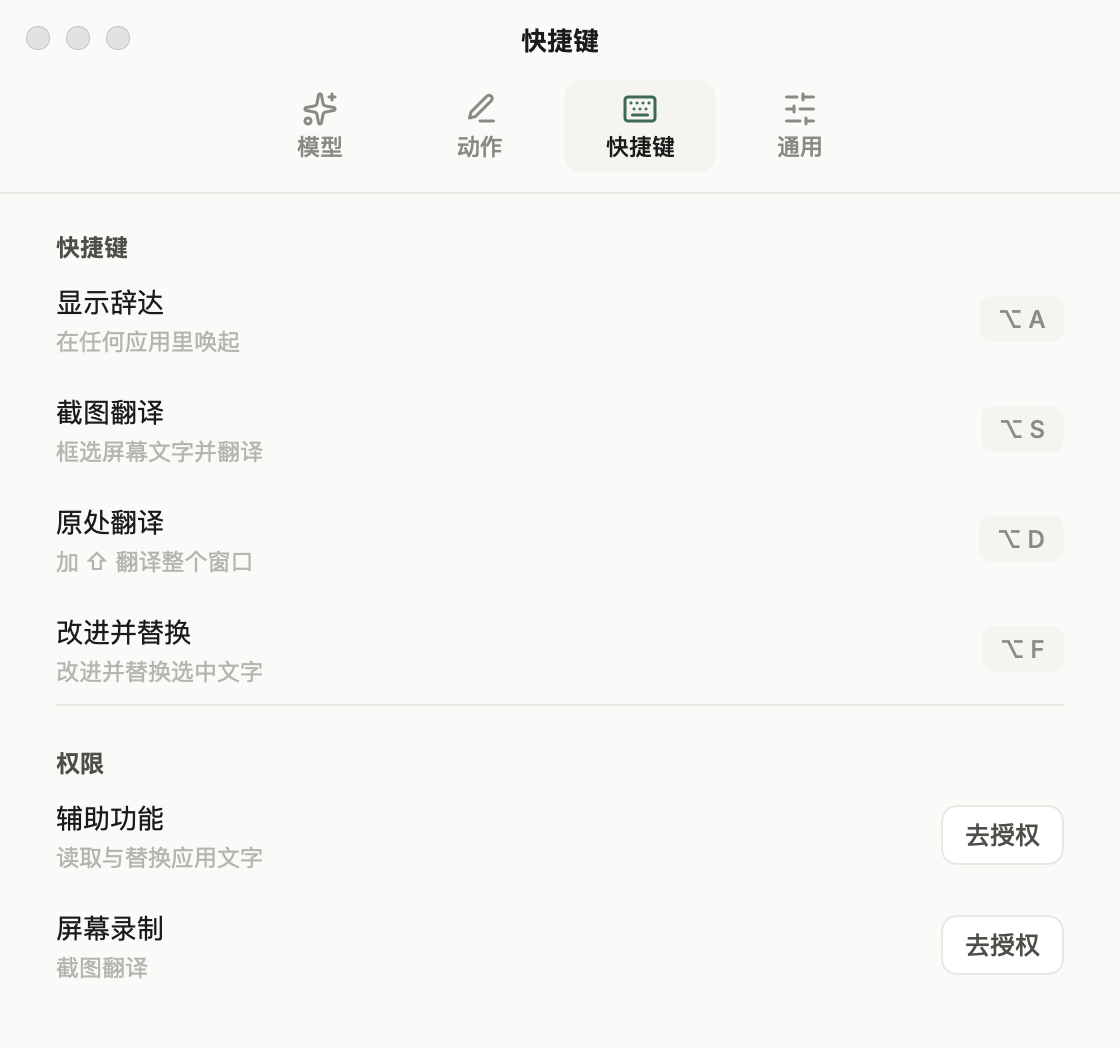
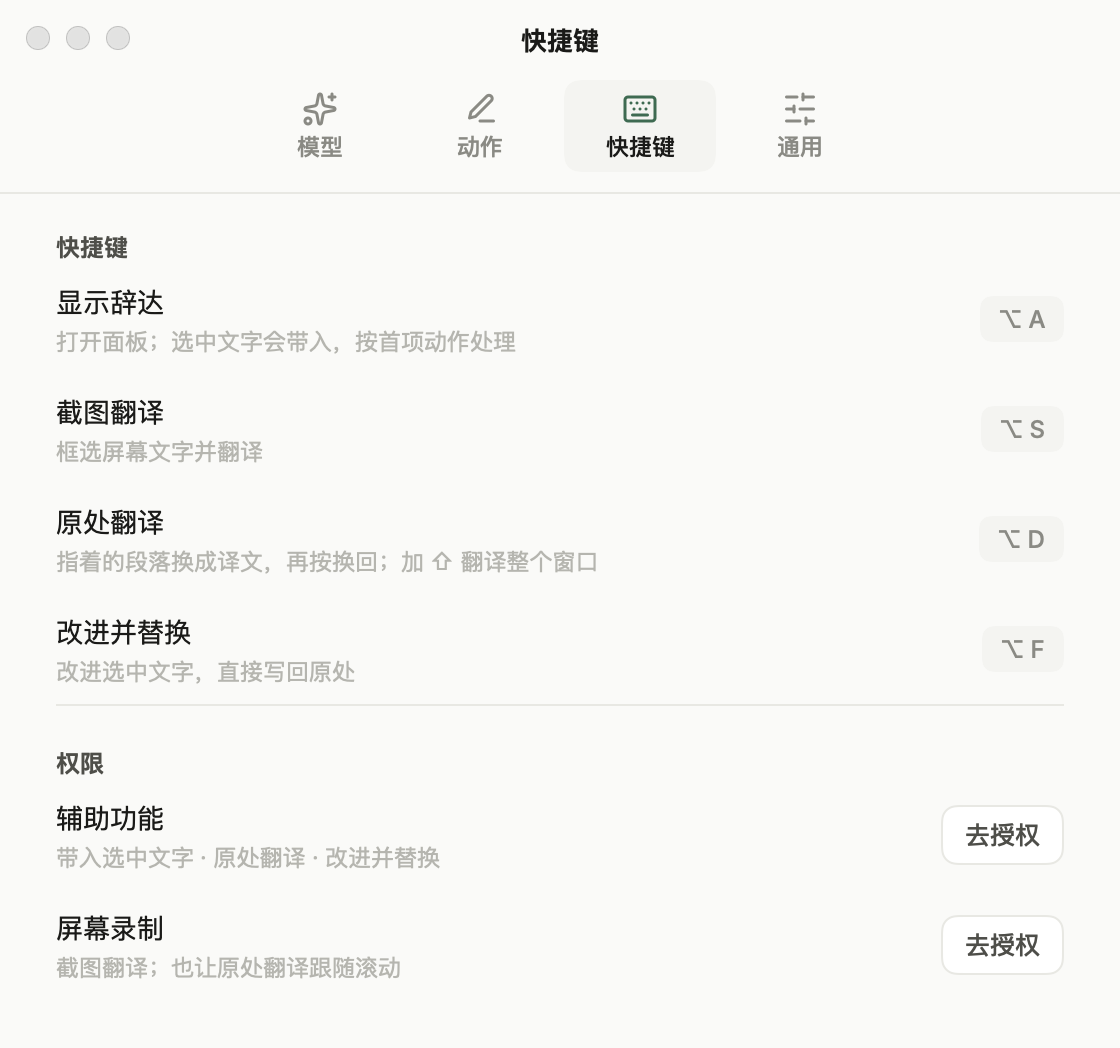
feat: clarify shortcut and permission settings
Explain each shortcut's effect directly in Settings and give captions the available width before their controls. Keep recording and permission interactions unchanged, and cover long custom combinations in native captures.

diff --git a/Sources/Cida/SettingsView.swift b/Sources/Cida/SettingsView.swift
@@ -478,20 +478,24 @@ private struct SettingsGroup<Content: View>: View {
   }
 }
 
-/// Label column (120 pt) beside a control column that fills the row.
+/// Form fields use a 120 pt label column. Shortcut and permission captions fill the
+/// space before their intrinsic-width trailing controls.
 private struct SettingsRow<Control: View>: View {
   let title: String
   var caption: String? = nil
   var verticalPadding: CGFloat = 9
   var alignment: Alignment = .leading
+  var expandsLabel = false
   @ViewBuilder let control: Control
 
   var body: some View {
     HStack(alignment: .center, spacing: 24) {
       SettingsLabel(title, caption: caption)
-        .frame(width: 120, alignment: .leading)
+        .frame(width: expandsLabel ? nil : 120, alignment: .leading)
+        .frame(maxWidth: expandsLabel ? .infinity : nil, alignment: .leading)
       control
-        .frame(maxWidth: .infinity, alignment: alignment)
+        .fixedSize(horizontal: expandsLabel, vertical: false)
+        .frame(maxWidth: expandsLabel ? nil : .infinity, alignment: alignment)
     }
     .padding(.vertical, verticalPadding)
   }
@@ -848,10 +852,10 @@ private struct GlobalShortcutRow: View {
     }
     if feedback == .rejected { return "这个组合已被占用，换一个" }
     switch action {
-    case .showPanel: return "在任何应用里唤起"
+    case .showPanel: return "打开面板；选中文字会带入，按首项动作处理"
     case .captureText: return "框选屏幕文字并翻译"
-    case .translationLayer: return "加 ⇧ 翻译整个窗口"
-    case .improveSelection: return "改进并替换选中文字"
+    case .translationLayer: return "指着的段落换成译文，再按换回；加 ⇧ 翻译整个窗口"
+    case .improveSelection: return "改进选中文字，直接写回原处"
     }
   }
 
@@ -874,7 +878,7 @@ private struct GlobalShortcutRow: View {
   }
 
   var body: some View {
-    SettingsRow(title: title, caption: caption, alignment: .trailing) {
+    SettingsRow(title: title, caption: caption, alignment: .trailing, expandsLabel: true) {
       HStack(spacing: 12) {
         if shortcut != action.defaultShortcut, !isRecording {
           Button("恢复默认") {
@@ -953,14 +957,14 @@ private struct ShortcutChip: View {
 // MARK: - 权限
 
 /// Accessibility lets the panel's shortcut bring in the frontmost application's selection and lets the
-/// translation layer read other applications' text (`Design/spec/settings.md` §五). There is no
-/// switch: granting turns both on, revoking in System Settings turns them off.
+/// translation layer and improvement action read or replace text (`Design/spec/settings.md` §五).
+/// Granting enables these capabilities; revoking in System Settings disables them.
 private struct AccessibilityPermissionRow: View {
   @Bindable var model: AppModel
 
   var body: some View {
     PermissionRow(
-      title: "辅助功能", caption: "读取与替换应用文字", isGranted: model.isSelectionAccessGranted,
+      title: "辅助功能", caption: "带入选中文字 · 原处翻译 · 改进并替换", isGranted: model.isSelectionAccessGranted,
       request: model.requestSelectionAccess, identifier: "settings-selection-access"
     )
     // The system does not say when the permission changes for this process;
@@ -987,13 +991,13 @@ private struct AccessibilityPermissionRow: View {
 }
 
 /// Screen Recording lets the capture shortcut freeze the screen and lets the translation
-/// layer match the page's colours and follow it while it scrolls.
+/// layer follow the source text while it scrolls.
 private struct ScreenRecordingPermissionRow: View {
   @Bindable var model: AppModel
 
   var body: some View {
     PermissionRow(
-      title: "屏幕录制", caption: "截图翻译", isGranted: model.isCaptureAccessGranted,
+      title: "屏幕录制", caption: "截图翻译；也让原处翻译跟随滚动", isGranted: model.isCaptureAccessGranted,
       request: model.requestCaptureAccess, identifier: "settings-capture-access"
     )
     .onAppear(perform: model.refreshCaptureAccess)
@@ -1014,7 +1018,7 @@ private struct PermissionRow: View {
   let identifier: String
 
   var body: some View {
-    SettingsRow(title: title, caption: caption, alignment: .trailing) {
+    SettingsRow(title: title, caption: caption, alignment: .trailing, expandsLabel: true) {
       if isGranted {
         Text("已开启")
           .font(CidaDesign.ui(12, weight: .medium))

diff --git a/Design/boards/components.js b/Design/boards/components.js
@@ -150,17 +150,19 @@ class CidaSettings extends HTMLElement {
     const shortcut = is("shortcut", "recording")
       ? row("显示辞达", "⌫ 不设置 · Esc 取消", `<span class="chip recording">按下新组合…</span>`, "end")
       : is("shortcut", "custom")
-        ? row("显示辞达", "在任何应用里唤起", `<span class="link">恢复默认</span><span class="chip">⌃ ⌥ T</span>`, "end spaced")
+        ? row("显示辞达", "打开面板；选中文字会带入，按首项动作处理", `<span class="link">恢复默认</span><span class="chip">⌃ ⌥ T</span>`, "end spaced")
         : is("shortcut", "unset")
-          ? row("显示辞达", "在任何应用里唤起", unset, "end spaced")
-          : row("显示辞达", "在任何应用里唤起", `<span class="chip${focus("shortcut")}">⌥ A</span>`, "end");
+          ? row("显示辞达", "打开面板；选中文字会带入，按首项动作处理", unset, "end spaced")
+          : row("显示辞达", "打开面板；选中文字会带入，按首项动作处理", `<span class="chip${focus("shortcut")}">⌥ A</span>`, "end");
     const capture = row("截图翻译", "框选屏幕文字并翻译", `<span class="chip">⌥ S</span>`, "end");
     const layerShortcut = is("shortcut", "unset")
-      ? row("原处翻译", "加 ⇧ 翻译整个窗口", unset, "end spaced")
-      : row("原处翻译", "加 ⇧ 翻译整个窗口", `<span class="chip">⌥ D</span>`, "end");
+      ? row("原处翻译", "指着的段落换成译文，再按换回；加 ⇧ 翻译整个窗口", unset, "end spaced")
+      : is("shortcut", "custom")
+        ? row("原处翻译", "指着的段落换成译文，再按换回；加 ⇧ 翻译整个窗口", `<span class="link">恢复默认</span><span class="chip">⌃ ⌥ ⌘ Space</span>`, "end spaced")
+        : row("原处翻译", "指着的段落换成译文，再按换回；加 ⇧ 翻译整个窗口", `<span class="chip">⌥ D</span>`, "end");
     const improvementShortcut = is("shortcut", "unset")
-      ? row("改进并替换", "改进并替换选中文字", unset, "end spaced")
-      : row("改进并替换", "改进并替换选中文字", `<span class="chip">⌥ F</span>`, "end");
+      ? row("改进并替换", "改进选中文字，直接写回原处", unset, "end spaced")
+      : row("改进并替换", "改进选中文字，直接写回原处", `<span class="chip">⌥ F</span>`, "end");
     // spec/settings.md §五: 已开启 once granted, otherwise 去授权.
     const permission = (title, caption) => row(title, caption,
       granted ? `<span class="status">已开启</span>` : `<span class="button">去授权</span>`, "end");
@@ -233,8 +235,8 @@ class CidaSettings extends HTMLElement {
         <div class="group"><h3>语言</h3>${languages}</div>
         <div class="group">${actions}</div>`,
       shortcuts: `
-        <div class="group"><h3>快捷键</h3>${shortcut}${capture}${layerShortcut}${improvementShortcut}</div>
-        <div class="group"><h3>权限</h3>${permission("辅助功能", "读取与替换应用文字")}${permission("屏幕录制", "截图翻译")}</div>`,
+        <div class="group wide-caption"><h3>快捷键</h3>${shortcut}${capture}${layerShortcut}${improvementShortcut}</div>
+        <div class="group wide-caption"><h3>权限</h3>${permission("辅助功能", "带入选中文字 · 原处翻译 · 改进并替换")}${permission("屏幕录制", "截图翻译；也让原处翻译跟随滚动")}</div>`,
       general: `
         <div class="group">${launch}${updates}${feedback}</div>
         <div class="footer"><span class="wordmark">辞达</span><small>1.0 · 辞达而已矣</small></div>`,

diff --git a/Design/boards/components.css b/Design/boards/components.css
@@ -1132,3 +1132,7 @@ body {
 .actions-trial-result { font-family: var(--font-result-cjk); font-size: 15px; line-height: 1.75; margin: 16px 0; color: var(--text-ink); }
 .actions-trial-result.reference { color: var(--text-secondary); }
 .actions-trial-run { display: flex; justify-content: flex-end; padding-top: 8px; }
+
+/* Shortcut and permission captions use the space before their trailing controls. */
+.settings .wide-caption .labels { width: auto; flex: 1; min-width: 0; }
+.settings .wide-caption .controls { flex: none; }

diff --git a/Sources/Cida/AppLifecycle.swift b/Sources/Cida/AppLifecycle.swift
@@ -1071,6 +1071,8 @@ private struct LaunchOptions {
       if usesDesignFixtures, designState == .settingsShortcutsCustom {
         settings.shortcut = GlobalShortcut(
           keyCode: UInt16(kVK_ANSI_T), modifiers: [.control, .option])
+        settings.layerShortcut = GlobalShortcut(
+          keyCode: UInt16(kVK_Space), modifiers: [.control, .option, .command])
       }
       if usesDesignFixtures, designState == .settingsShortcutsUnset {
         // Someone who only captures text.

diff --git a/Design/spec/settings.md b/Design/spec/settings.md
@@ -10,7 +10,7 @@
 - 设置页所有自有控件统一用 1pt `accent` 细线表示键盘焦点，替代系统默认粗蓝框。标签、按钮、快捷键和动作分段沿各自圆角内描边；纯文字按钮向外留 3pt，开关沿胶囊外缘留 2pt，让开启时的焦点仍可辨认。输入框聚焦时边线转为绿色，动作名称用绿色下划线，提示词编辑器用绿色光标。焦点离开后提示消失，禁用控件不参与焦点导航；系统窗口按钮、系统弹窗和「完全键盘控制」的辅助功能高亮仍由系统管理。
 - 当前标签的浅灰底和绿色图标只表示页面选择，与键盘焦点独立。Tab / Shift-Tab 移动焦点，空格激活按钮或开关；编辑器保留文本输入和已有快捷键。
 - 窗口高度随当前标签的内容；切换标签或展开提示词时顶边不动、窗口用 150ms（`motion-height-ms`）ease-out 向下展开或向上收起（reduced motion 时直接到位），超过屏幕可见高度时停在可见高度、内容在窗口内滚动。
-- 标签里按组排列：组标题 12 semibold `text-control`；只有一组的标签不写组标题（标题栏已经说了）；组间 1px `border` 分隔；第一组距分隔线 12，后面的组距上一条分隔线 20。行 = 标签列 120 + 24 间距 + 控件列铺满；标签 13.5 `text-primary`，说明 11.5 `text-tertiary`；行上下 padding 9。
+- 标签里按组排列：组标题 12 semibold `text-control`；只有一组的标签不写组标题（标题栏已经说了）；组间 1px `border` 分隔；第一组距分隔线 12，后面的组距上一条分隔线 20。行 = 标签列 120 + 24 间距 + 控件列铺满；标签 13.5 `text-primary`，说明 11.5 `text-tertiary`；行上下 padding 9。快捷键与权限行的标签列占用右侧控件前的剩余宽度，控件保持固有宽度，列间仍留 24pt；说明不再限制在 120pt 内。
 - 语言与其他偏好自动保存（250ms 合并）。动作编辑由「完成」应用，草稿在当前应用进程内保留。
 
 ## 二、模型
@@ -68,10 +68,10 @@
 
 | 行 | 说明 | 默认 |
 | --- | --- | --- |
-| 显示辞达 | 在任何应用里唤起 | ⌥ A |
+| 显示辞达 | 打开面板；选中文字会带入，按首项动作处理 | ⌥ A |
 | 截图翻译 | 框选屏幕文字并翻译 | ⌥ S |
-| 原处翻译 | 加 ⇧ 翻译整个窗口（`spec/translation-layer.md`） | ⌥ D |
-| 改进并替换 | 改进并替换选中文字 | ⌥ F |
+| 原处翻译 | 指着的段落换成译文，再按换回；加 ⇧ 翻译整个窗口（`spec/translation-layer.md`） | ⌥ D |
+| 改进并替换 | 改进选中文字，直接写回原处 | ⌥ F |
 
 - 键帽芯片（`surface-dim`，`radius-chip`，12 medium `text-secondary`）是一个按钮，显示当前组合。点击进入录制：芯片改为 `surface` 底、1px accent 描边、`text-tertiary`「按下新组合…」，说明变为「⌫ 不设置 · Esc 取消」；按下带 ⌘/⌥/⌃ 的组合立即保存并重新注册，Esc 或失焦取消；按下不带这些修饰键的按键不结束录制，说明改为「要带 ⌘、⌥ 或 ⌃」。注册失败（被系统、其他应用或另一个快捷键占用）保留原组合，说明变为「这个组合已被占用，换一个」。录制任一快捷键时所有全局快捷键都暂停，按下的组合只交给录制。未开始录制时，隐藏的录制器不参与 Tab 导航。
 - 不设置（2026-09-30 决定）：录制时单独按 ⌫ 或 ⌦，立即注销这个全局快捷键并结束录制；带修饰键的 ⌫（如 ⌥⌫）仍是普通组合。未设置时芯片写「未设置」（`text-tertiary`），点击照常录制；组合不是默认值，所以左侧出现「恢复默认」。未设置的快捷键不参与「不能相同」，它原来的组合可以给别的快捷键。给只用其中一两个功能的人：只用截图翻译时清掉显示辞达与原处翻译。没有逐行开关，不弹确认。
@@ -91,8 +91,8 @@
 
 | 行 | 说明 | 用途 |
 | --- | --- | --- |
-| 辅助功能 | 读取与替换应用文字 | ⌥ A 带入前台应用的选中文字（`spec/panel.md` §一）；原处翻译读取其他应用的文字（没有它时按 ⌥ D 只请求这项权限）；⌥ F 读取并替换选中文字 |
-| 屏幕录制 | 截图翻译 | ⌥ S 冻结屏幕框选文字（原处翻译不用它：译文总是辞达的纸与墨） |
+| 辅助功能 | 带入选中文字 · 原处翻译 · 改进并替换 | ⌥ A 带入前台应用的选中文字（`spec/panel.md` §一）；原处翻译读取其他应用的文字（没有它时按 ⌥ D 只请求这项权限）；⌥ F 读取并替换选中文字 |
+| 屏幕录制 | 截图翻译；也让原处翻译跟随滚动 | 截图翻译冻结屏幕框选文字；已授权时，原处翻译捕获源窗口以跟随滚动。未授权时仍可原处翻译，停稳后再定位，不额外申请这项权限；译文保持辞达的纸与墨 |
 
 - 未授权：右侧「去授权」边框按钮（同「编辑」），点击弹出系统授权提示（屏幕录制同时打开「隐私与安全性 › 屏幕录制」；授权后 macOS 可能要求重新打开辞达）。已授权：右侧「已开启」（12 medium `text-secondary`）。
 - 状态在窗口成为 key 时重新读取；辅助功能还在系统的允许列表变化时重新读取，不需要重启辞达。

diff --git a/Design/spec/review-decisions.md b/Design/spec/review-decisions.md
@@ -1,6 +1,6 @@
 # 交互精修决策与确认进度
 
-2026-10-08：按 01–09 的顺序逐项审阅和实现。01–06 已获用户确认；07–09 是已经讨论收敛、等待用户逐项确认的建议，不替换现行产品规范，也不授权提前实现。每项确认后，在对应主题的规范和设计板中原位更新，并在本表更新状态。
+2026-10-20：按 01–09 的顺序逐项审阅和实现。01–07 已获用户确认；08–09 是已经讨论收敛、等待用户逐项确认的建议，不替换现行产品规范，也不授权提前实现。每项确认后，在对应主题的规范和设计板中原位更新，并在本表更新状态。
 
 | 编号 | 主题 | 状态 | 落地位置 |
 | --- | --- | --- | --- |
@@ -10,7 +10,7 @@
 | 04 | 旧结果 | 已确认 · 已实现 | [面板](panel.md)、[面板设计板](../boards/panel-states.html) |
 | 05 | 失败恢复 | 已确认并实现 | [面板](panel.md)、[分享图设计板](../boards/share-card.html) |
 | 06 | 动作试运行 | 已确认并实现 | [设置](settings.md)、[动作设计板](../boards/actions.html) |
-| 07 | 快捷键与权限 | 待确认 | [设置](settings.md)、[设置设计板](../boards/settings-states.html) |
+| 07 | 快捷键与权限 | 已确认并实现 | [设置](settings.md)、[设置设计板](../boards/settings-states.html) |
 | 08 | 更新操作 | 待确认 | [生命周期 §五](lifecycle.md#五更新)、[更新](updates.md)、[生命周期设计板](../boards/lifecycle.html) |
 | 09 | 字色与尺度 | 待确认 | [外观](appearance.md)、[颜色与尺度](../boards/tokens.css) |
 
@@ -71,12 +71,13 @@
 - 补齐运行中、已停止、试运行失败、保存成功但试运行失败。保存与试运行结果分别反馈；配置失败沿用 05 的 agent 恢复入口。
 - 代价：编辑时保留参照结果会增加窗口高度。
 
-## 07 快捷键与权限：待确认
+## 07 快捷键与权限：已确认并实现
 
-- 保留四项入口及自定义键位、未设置、恢复默认、录制流程和常驻权限状态。
-- 每行可展开和收起用法卡，说明任务过程、所需权限和其他共用这项权限的能力。展示随用户配置变化的键位。
-- 区分可点击的录制键帽与说明文字里的键位。用法卡和权限组里的授权入口共享同一状态来源。
-- 按需申请权限是已有行为，继续保留；新增的是更容易理解的任务示例和入口说明。
+- 保留四行快捷键与常驻权限组，以及录制、未设置、恢复默认、冲突反馈和按需授权。
+- 用行内说明表达用途：显示辞达会带入选区并执行首项动作；原处翻译说明段落、再次按键换回和加 ⇧ 整窗；改进并替换说明写回原处。
+- 说明使用右侧控件前的剩余宽度，保留 24pt 间距和现有行高、字号、视觉语言。
+- 辅助功能说明共用权限的三项能力；屏幕录制说明截图翻译和原处翻译跟随滚动。未授权时原处翻译仍可使用，不额外申请屏幕录制。
+- 不增加用法展开卡、独立指南、模拟演示或权限跳转。
 
 ## 08 更新操作：待确认
 
